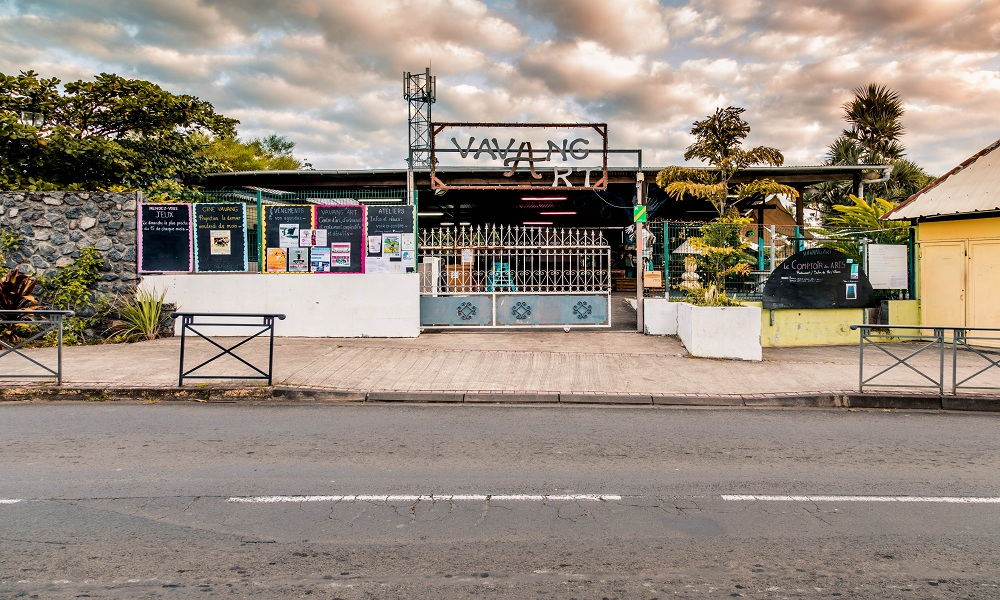
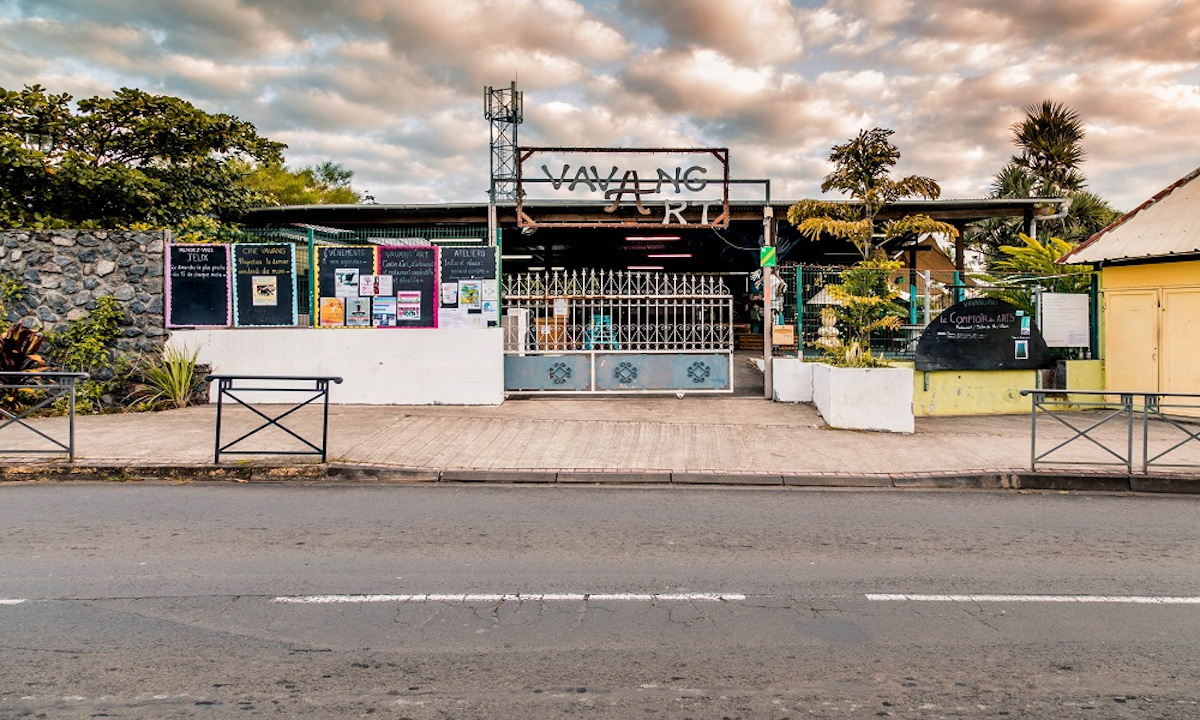
data img for demo

diff --git a/DjangoFiles/Administration/management/commands/pop_demo_data.py b/DjangoFiles/Administration/management/commands/pop_demo_data.py
@@ -110,7 +110,7 @@ class Command(BaseCommand):
                      'publish': 'true',
                      'categorie_article': 'B'}
         files = [
-            ('img', ('tickets_old.png', open('/DjangoFiles/www/demo_img/tickets.png', 'rb'), 'image/png'))
+            ('img', ('tickets_old.png', open('/DjangoFiles/data/demo_img/tickets.png', 'rb'), 'image/png'))
         ]
         response = requests.request("POST", url, headers=headers, data=data_json, files=files)
         uuid_ticket_product = response.json().get("uuid")
@@ -152,7 +152,7 @@ class Command(BaseCommand):
                      'publish': 'true',
                      'categorie_article': 'T'}
         files = [
-            ('img', ('tshirt.png', open('/DjangoFiles/www/demo_img/tshirt.png', 'rb'), 'image/png'))
+            ('img', ('tshirt.png', open('/DjangoFiles/data/demo_img/tshirt.png', 'rb'), 'image/png'))
         ]
         response = requests.request("POST", url, headers=headers, data=data_json, files=files)
         uuid_tshirt_product = response.json().get("uuid")
@@ -217,6 +217,7 @@ class Command(BaseCommand):
                 'phone': place.get("phone"),
                 'email': place.get("email"),
                 'postal_code': place.get("postal_code"),
+                'categorie':'S',
             }
 
             files = []

diff --git a/DjangoFiles/data/domains_and_cards.py b/DjangoFiles/data/domains_and_cards.py
@@ -8,6 +8,7 @@ places = {
         'email': "demo@demo.com",
         'postal_code': '97480',
         'img':'old_place.jpg',
+        'logo':'pic03.jpg',
     },
     "Bisik": {
         'short_description': 'Le café culturel de Saint-Benoit.',
@@ -15,6 +16,9 @@ places = {
         'email': "demo@demo.com",
         'postal_code': '97480',
         'phone': "0612451245",
+        'logo':'bisik2_300.jpg',
+        'img':'project9.jpg',
+
     },
     "Vavang'Art": {
         'short_description': "Restaurant Tiers lieux de L'entre deux.",
@@ -23,7 +27,7 @@ places = {
         'postal_code': '97480',
         'phone': "0612451245",
         'img':'vavangart.jpg',
-        'logo':'vavangart_logo.jpg',
+        'logo':'vavangart_logo.png',
 
     },
     "La Raffinerie": {
@@ -34,7 +38,7 @@ places = {
         'postal_code': '97480',
         'phone': "0612451245",
         'img': 'raffinerie.jpg',
-        'logo': 'raffinerie.jpg',
+        'logo': 'raffinerie.png',
     },
     "3Peaks": {
         'short_description': "L'asso qui n'a plus de Manapany Festival",
